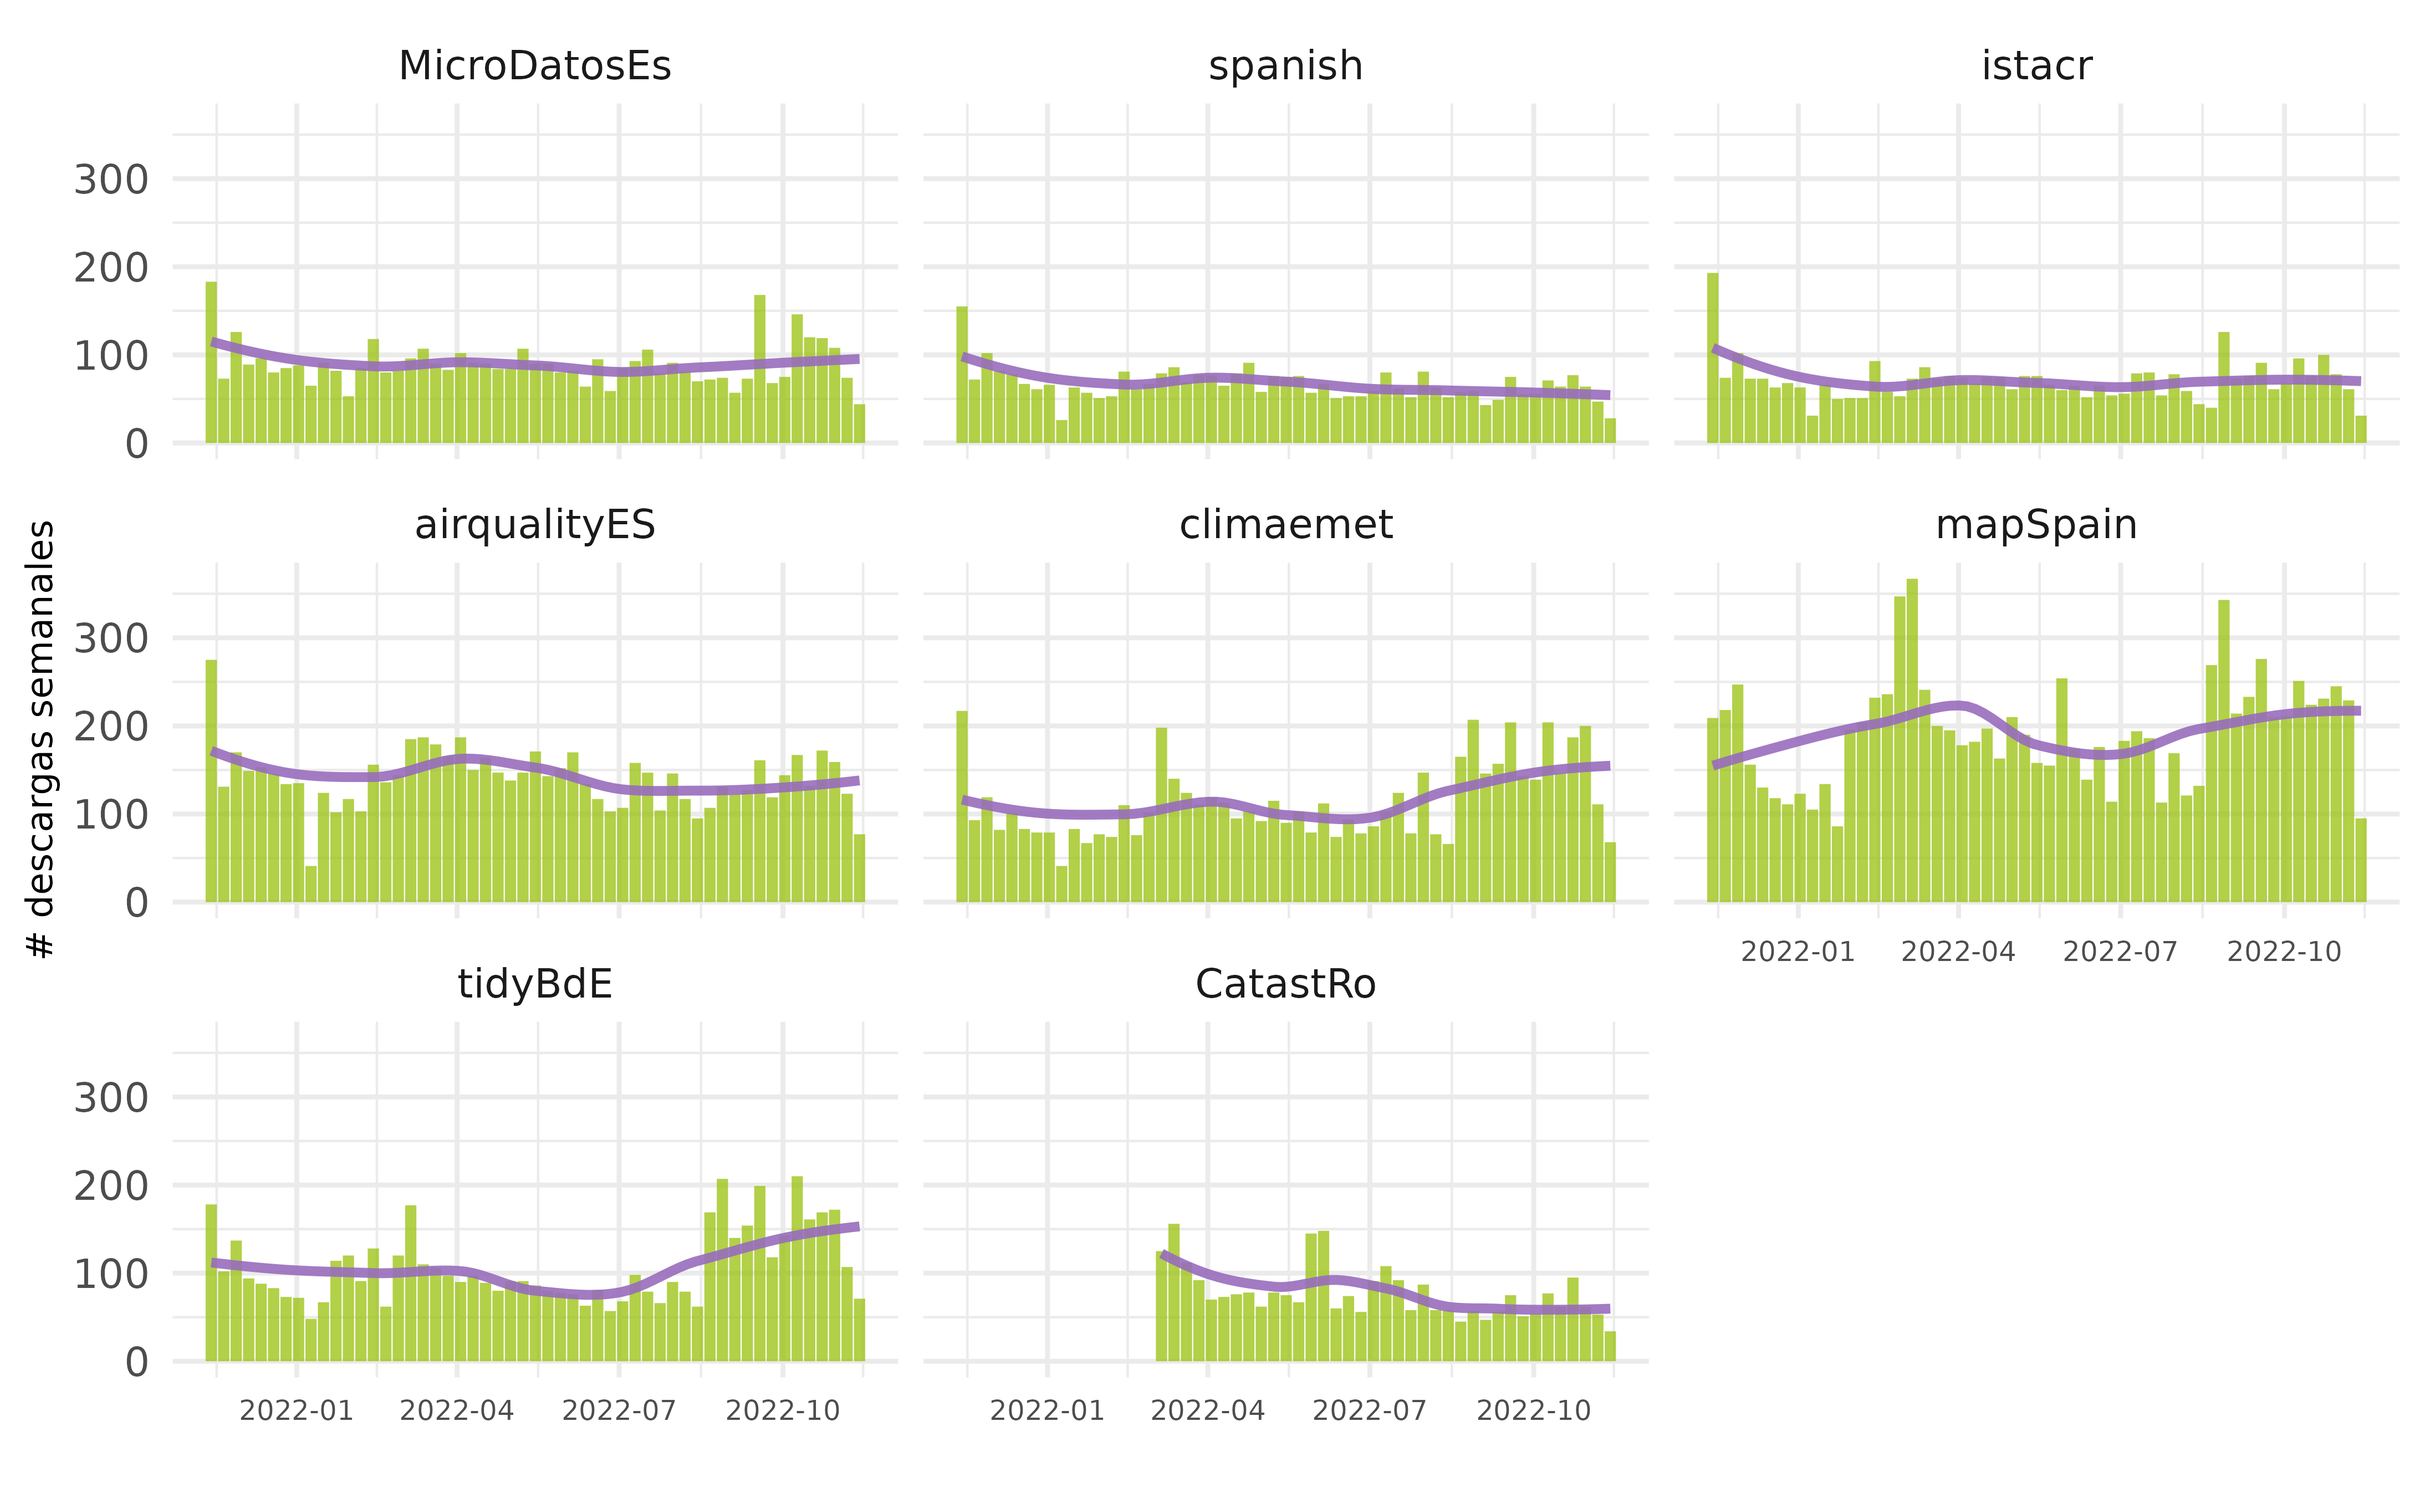
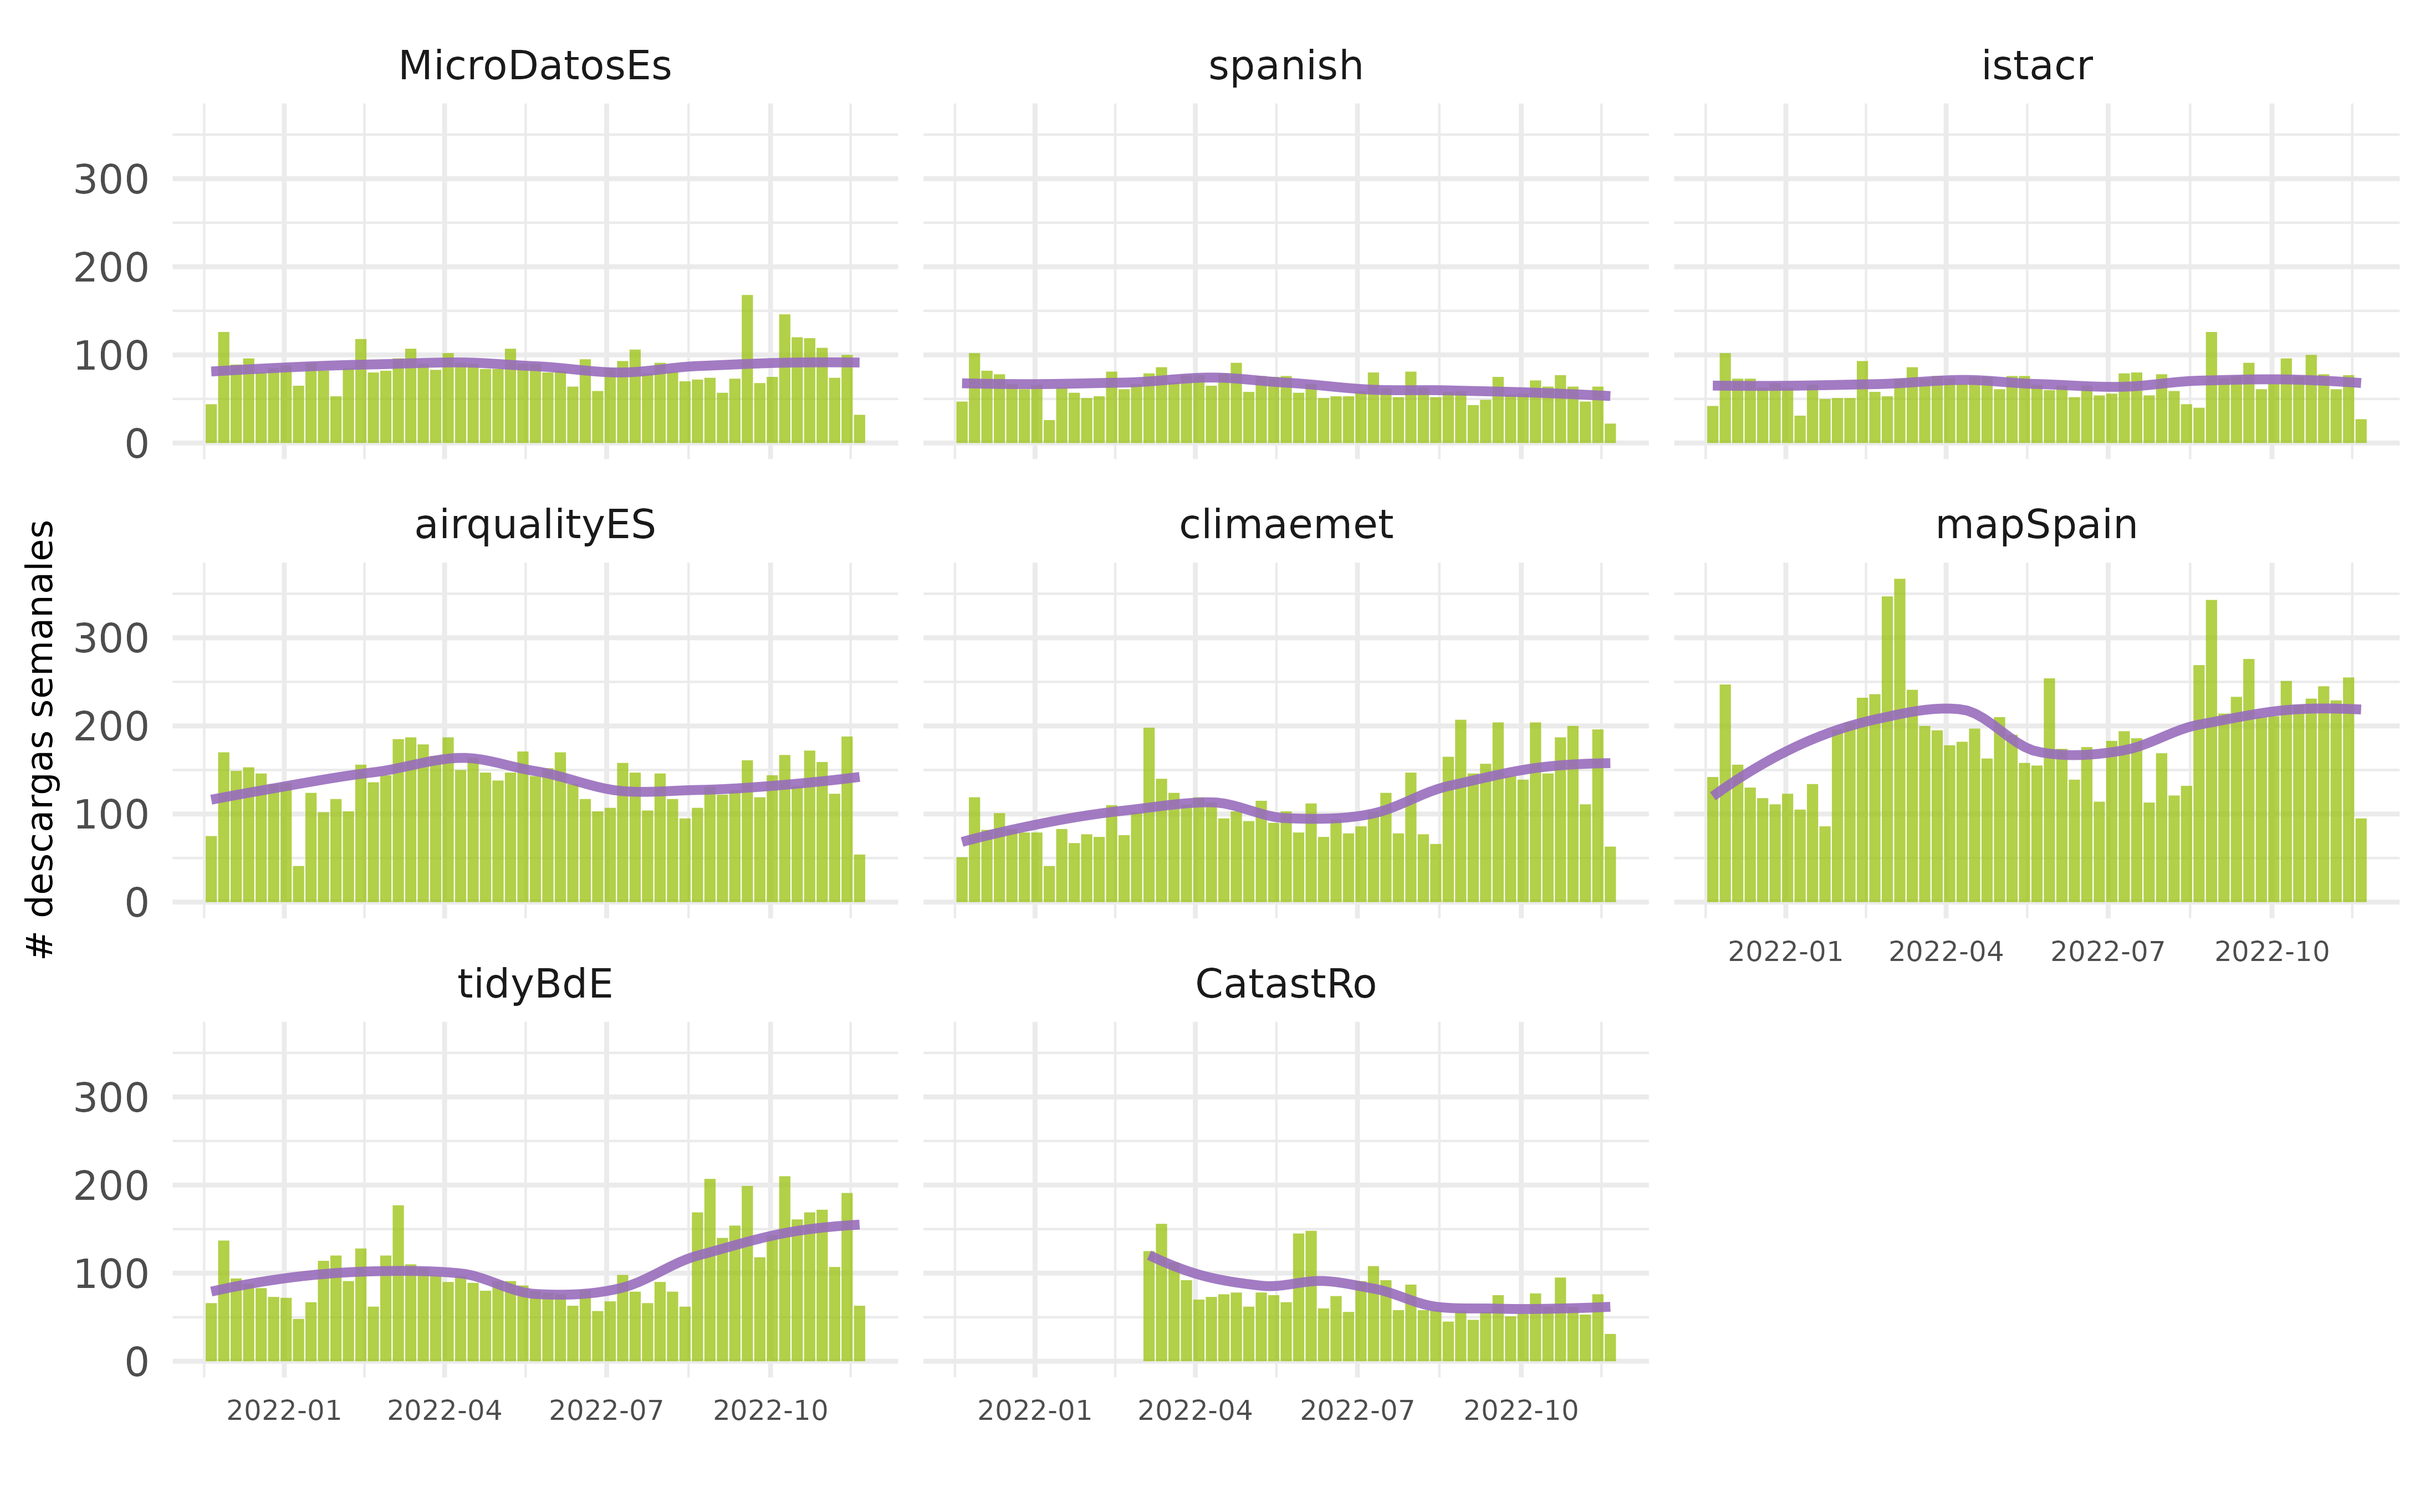
Built site for rostemplate: 0.1.1.9000@9bdd130

diff --git a/articles/descargas.html b/articles/descargas.html
@@ -100,7 +100,7 @@
 
     
     
-<p><em>Fecha de actualización: 10 Nov 2022</em></p>
+<p><em>Fecha de actualización: 17 Nov 2022</em></p>
 <p>Descargas de paquetes de rOpenSpain desde CRAN.</p>
 <div class="section level2">
 <h2 id="total-de-descargas">Total de descargas<a class="anchor" aria-label="anchor" href="#total-de-descargas"></a>
@@ -116,7 +116,7 @@
 <h2 id="datos">Datos<a class="anchor" aria-label="anchor" href="#datos"></a>
 </h2>
 <div id="station-table" class="reactable html-widget" style="width:auto;height:auto;"></div>
-<script type="application/json" data-for="station-table">{"x":{"tag":{"name":"Reactable","attribs":{"data":{"paquete":["CatastRo","tidyBdE","mapSpain","climaemet","airqualityES","istacr","spanish","MicroDatosEs"],"en CRAN":["2022-02-28","2021-04-08","2020-11-30","2020-07-07","2020-02-29","2019-04-24","2017-12-14","2013-10-21"],"media descargas diarias":[11.3,15.8,24.3,16.1,21.4,13,11.5,13.3],"ultimo dia":[20,19,24,18,22,13,13,16],"ultima semana":[59,146,247,140,146,63,52,87],"ultimo mes":[300,670,1012,708,654,342,274,454],"ultimo año":[2867,5688,10274,6081,7471,3763,3526,4773]},"columns":[{"accessor":"paquete","name":"paquete","type":"character"},{"accessor":"en CRAN","name":"en CRAN","type":"Date"},{"accessor":"media descargas diarias","name":"media descargas diarias","type":"numeric"},{"accessor":"ultimo dia","name":"ultimo dia","type":"numeric"},{"accessor":"ultima semana","name":"ultima semana","type":"numeric"},{"accessor":"ultimo mes","name":"ultimo mes","type":"numeric"},{"accessor":"ultimo año","name":"ultimo año","type":"numeric"}],"filterable":true,"searchable":true,"defaultPageSize":10,"showPageSizeOptions":true,"pageSizeOptions":[10,25,50,100],"paginationType":"jump","showPageInfo":true,"minRows":1,"striped":true,"elementId":"station-table","dataKey":"1464402b42eace49fe726656692c5336"},"children":[]},"class":"reactR_markup"},"evals":[],"jsHooks":[]}</script>
+<script type="application/json" data-for="station-table">{"x":{"tag":{"name":"Reactable","attribs":{"data":{"paquete":["CatastRo","tidyBdE","mapSpain","climaemet","airqualityES","istacr","spanish","MicroDatosEs"],"en CRAN":["2022-02-28","2021-04-08","2020-11-30","2020-07-07","2020-02-29","2019-04-24","2017-12-14","2013-10-21"],"media descargas diarias":[11.3,16,24.4,16.2,21.4,13,11.5,13.3],"ultimo dia":[10,11,16,9,11,7,5,7],"ultima semana":[63,170,237,174,134,67,51,80],"ultimo mes":[316,699,1044,754,685,341,274,429],"ultimo año":[2940,5657,10244,6013,7305,3611,3404,4649]},"columns":[{"accessor":"paquete","name":"paquete","type":"character"},{"accessor":"en CRAN","name":"en CRAN","type":"Date"},{"accessor":"media descargas diarias","name":"media descargas diarias","type":"numeric"},{"accessor":"ultimo dia","name":"ultimo dia","type":"numeric"},{"accessor":"ultima semana","name":"ultima semana","type":"numeric"},{"accessor":"ultimo mes","name":"ultimo mes","type":"numeric"},{"accessor":"ultimo año","name":"ultimo año","type":"numeric"}],"filterable":true,"searchable":true,"defaultPageSize":10,"showPageSizeOptions":true,"pageSizeOptions":[10,25,50,100],"paginationType":"jump","showPageInfo":true,"minRows":1,"striped":true,"elementId":"station-table","dataKey":"512db8f100ecbb2a07820dcf4f191556"},"children":[]},"class":"reactR_markup"},"evals":[],"jsHooks":[]}</script>
 </div>
   </main><aside class="col-md-3"><nav id="toc"><h2>En esta página</h2>
     </nav></aside>
